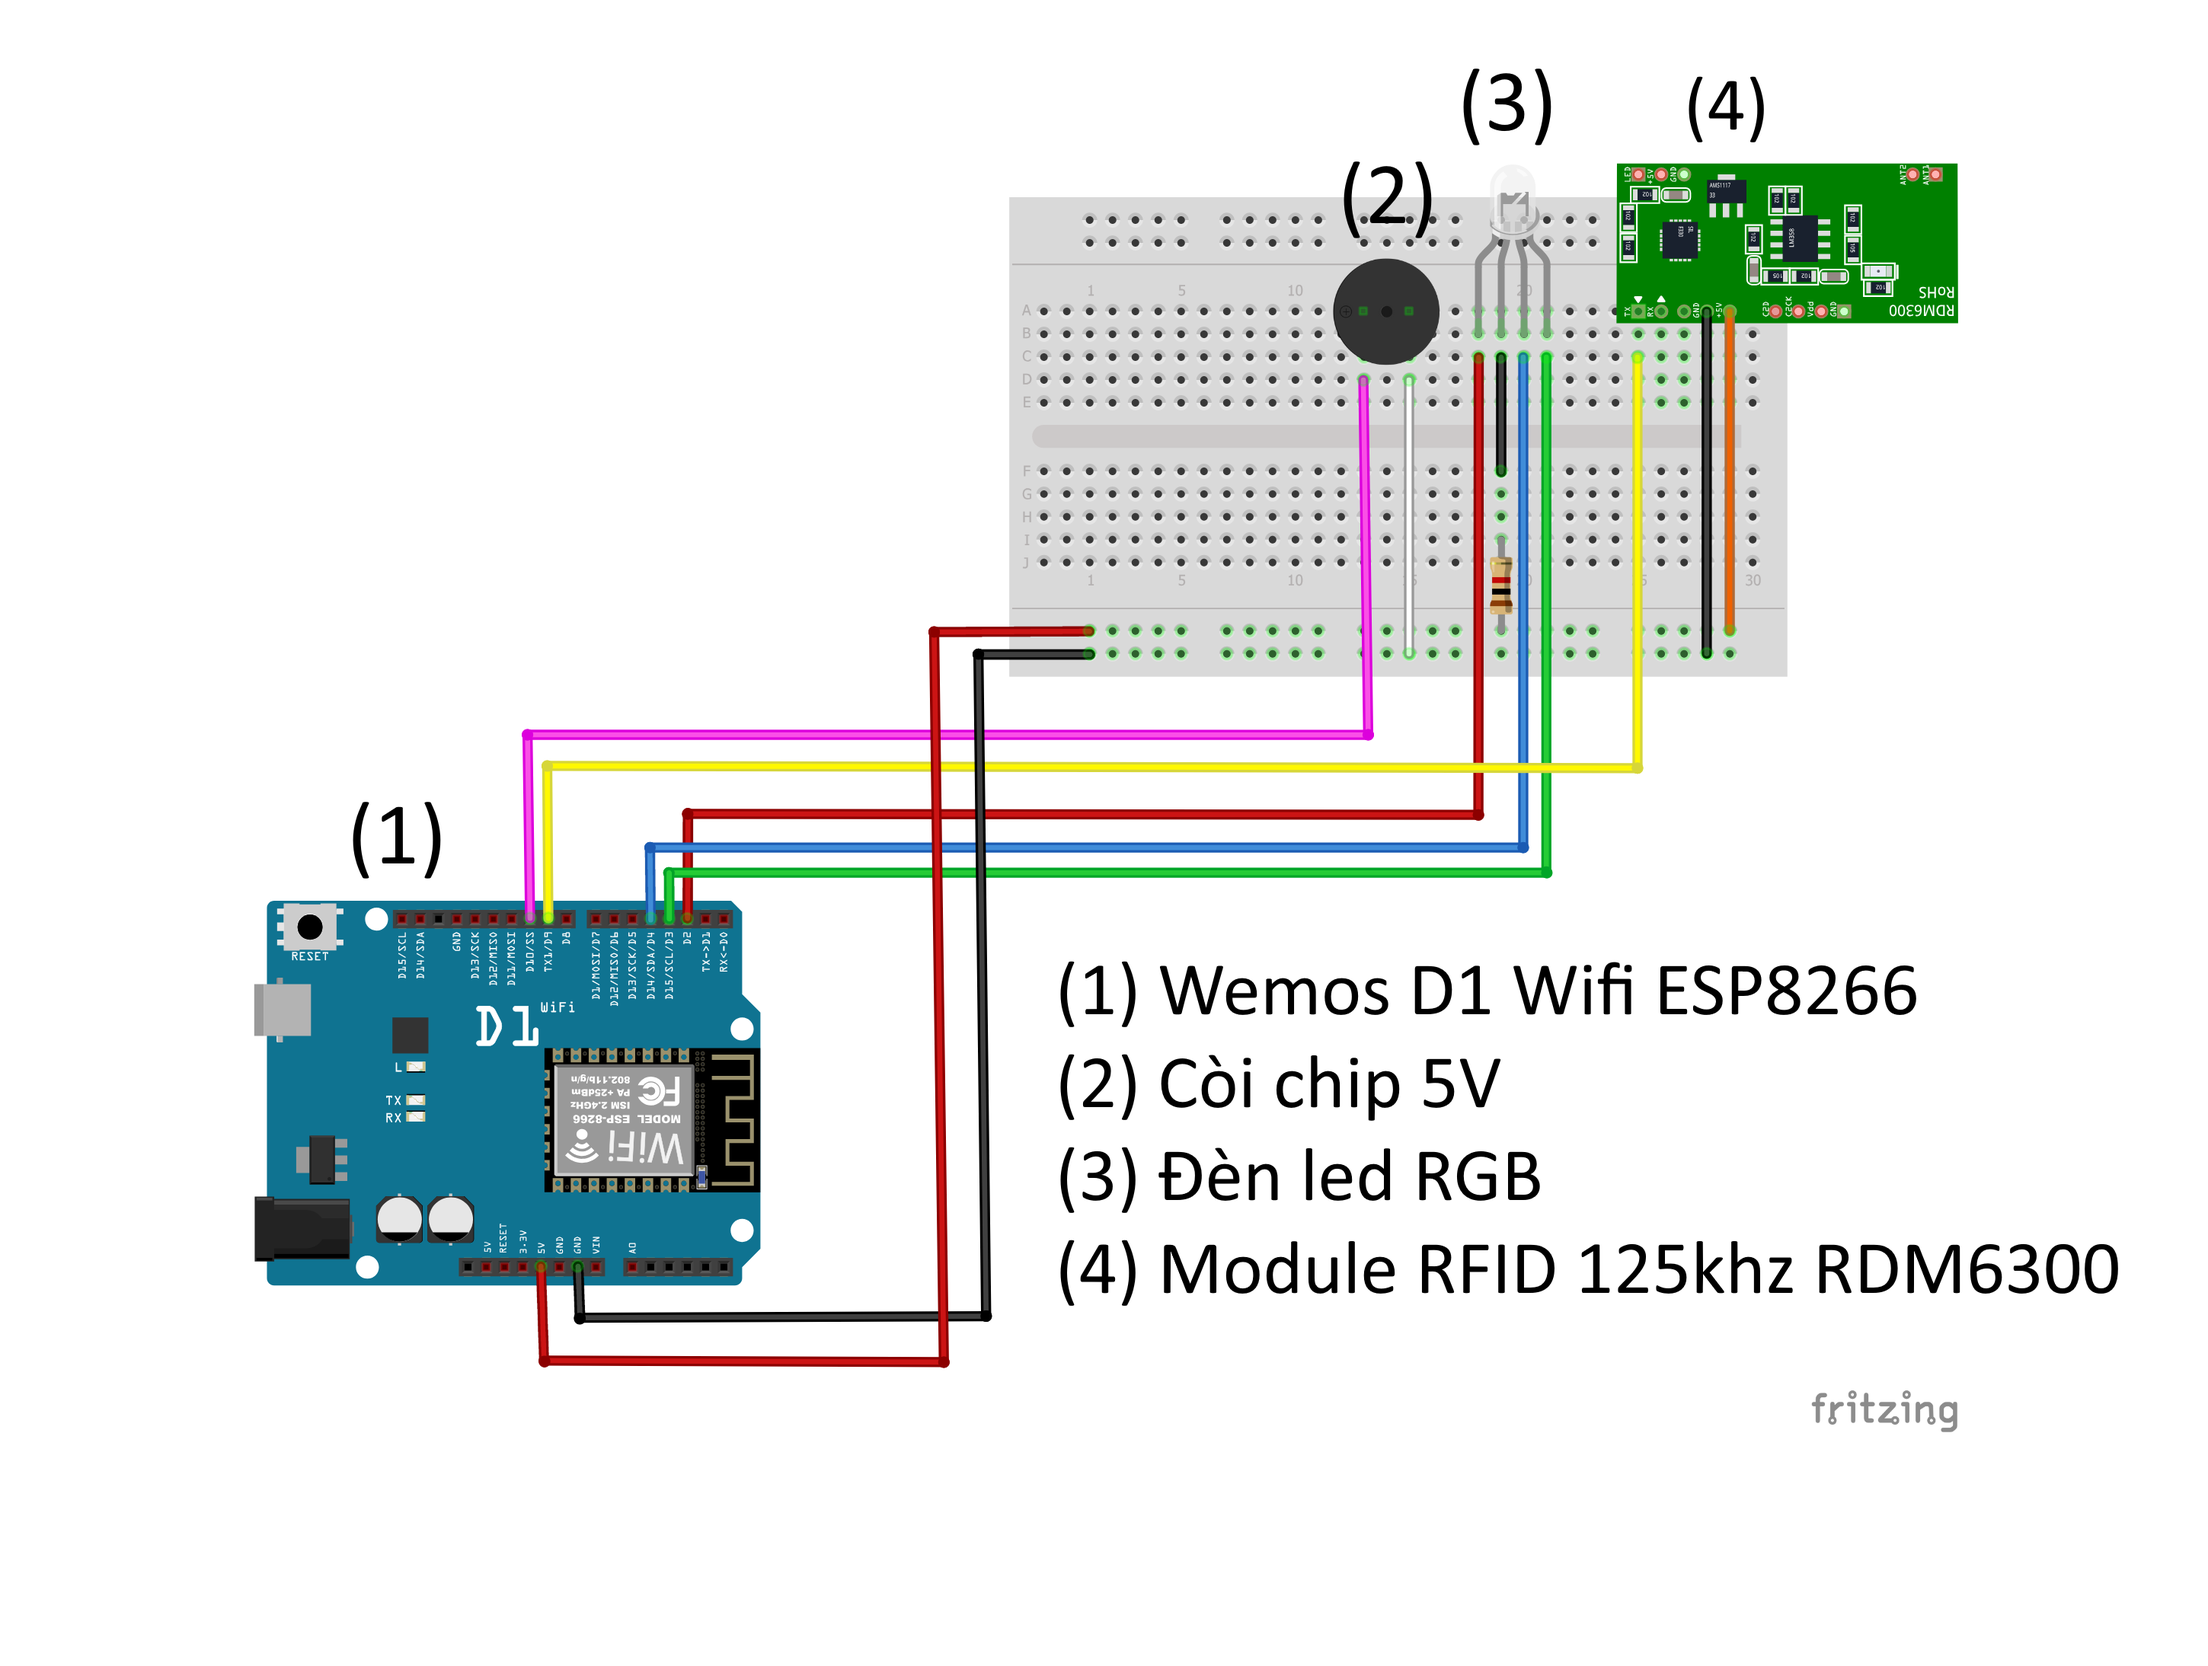
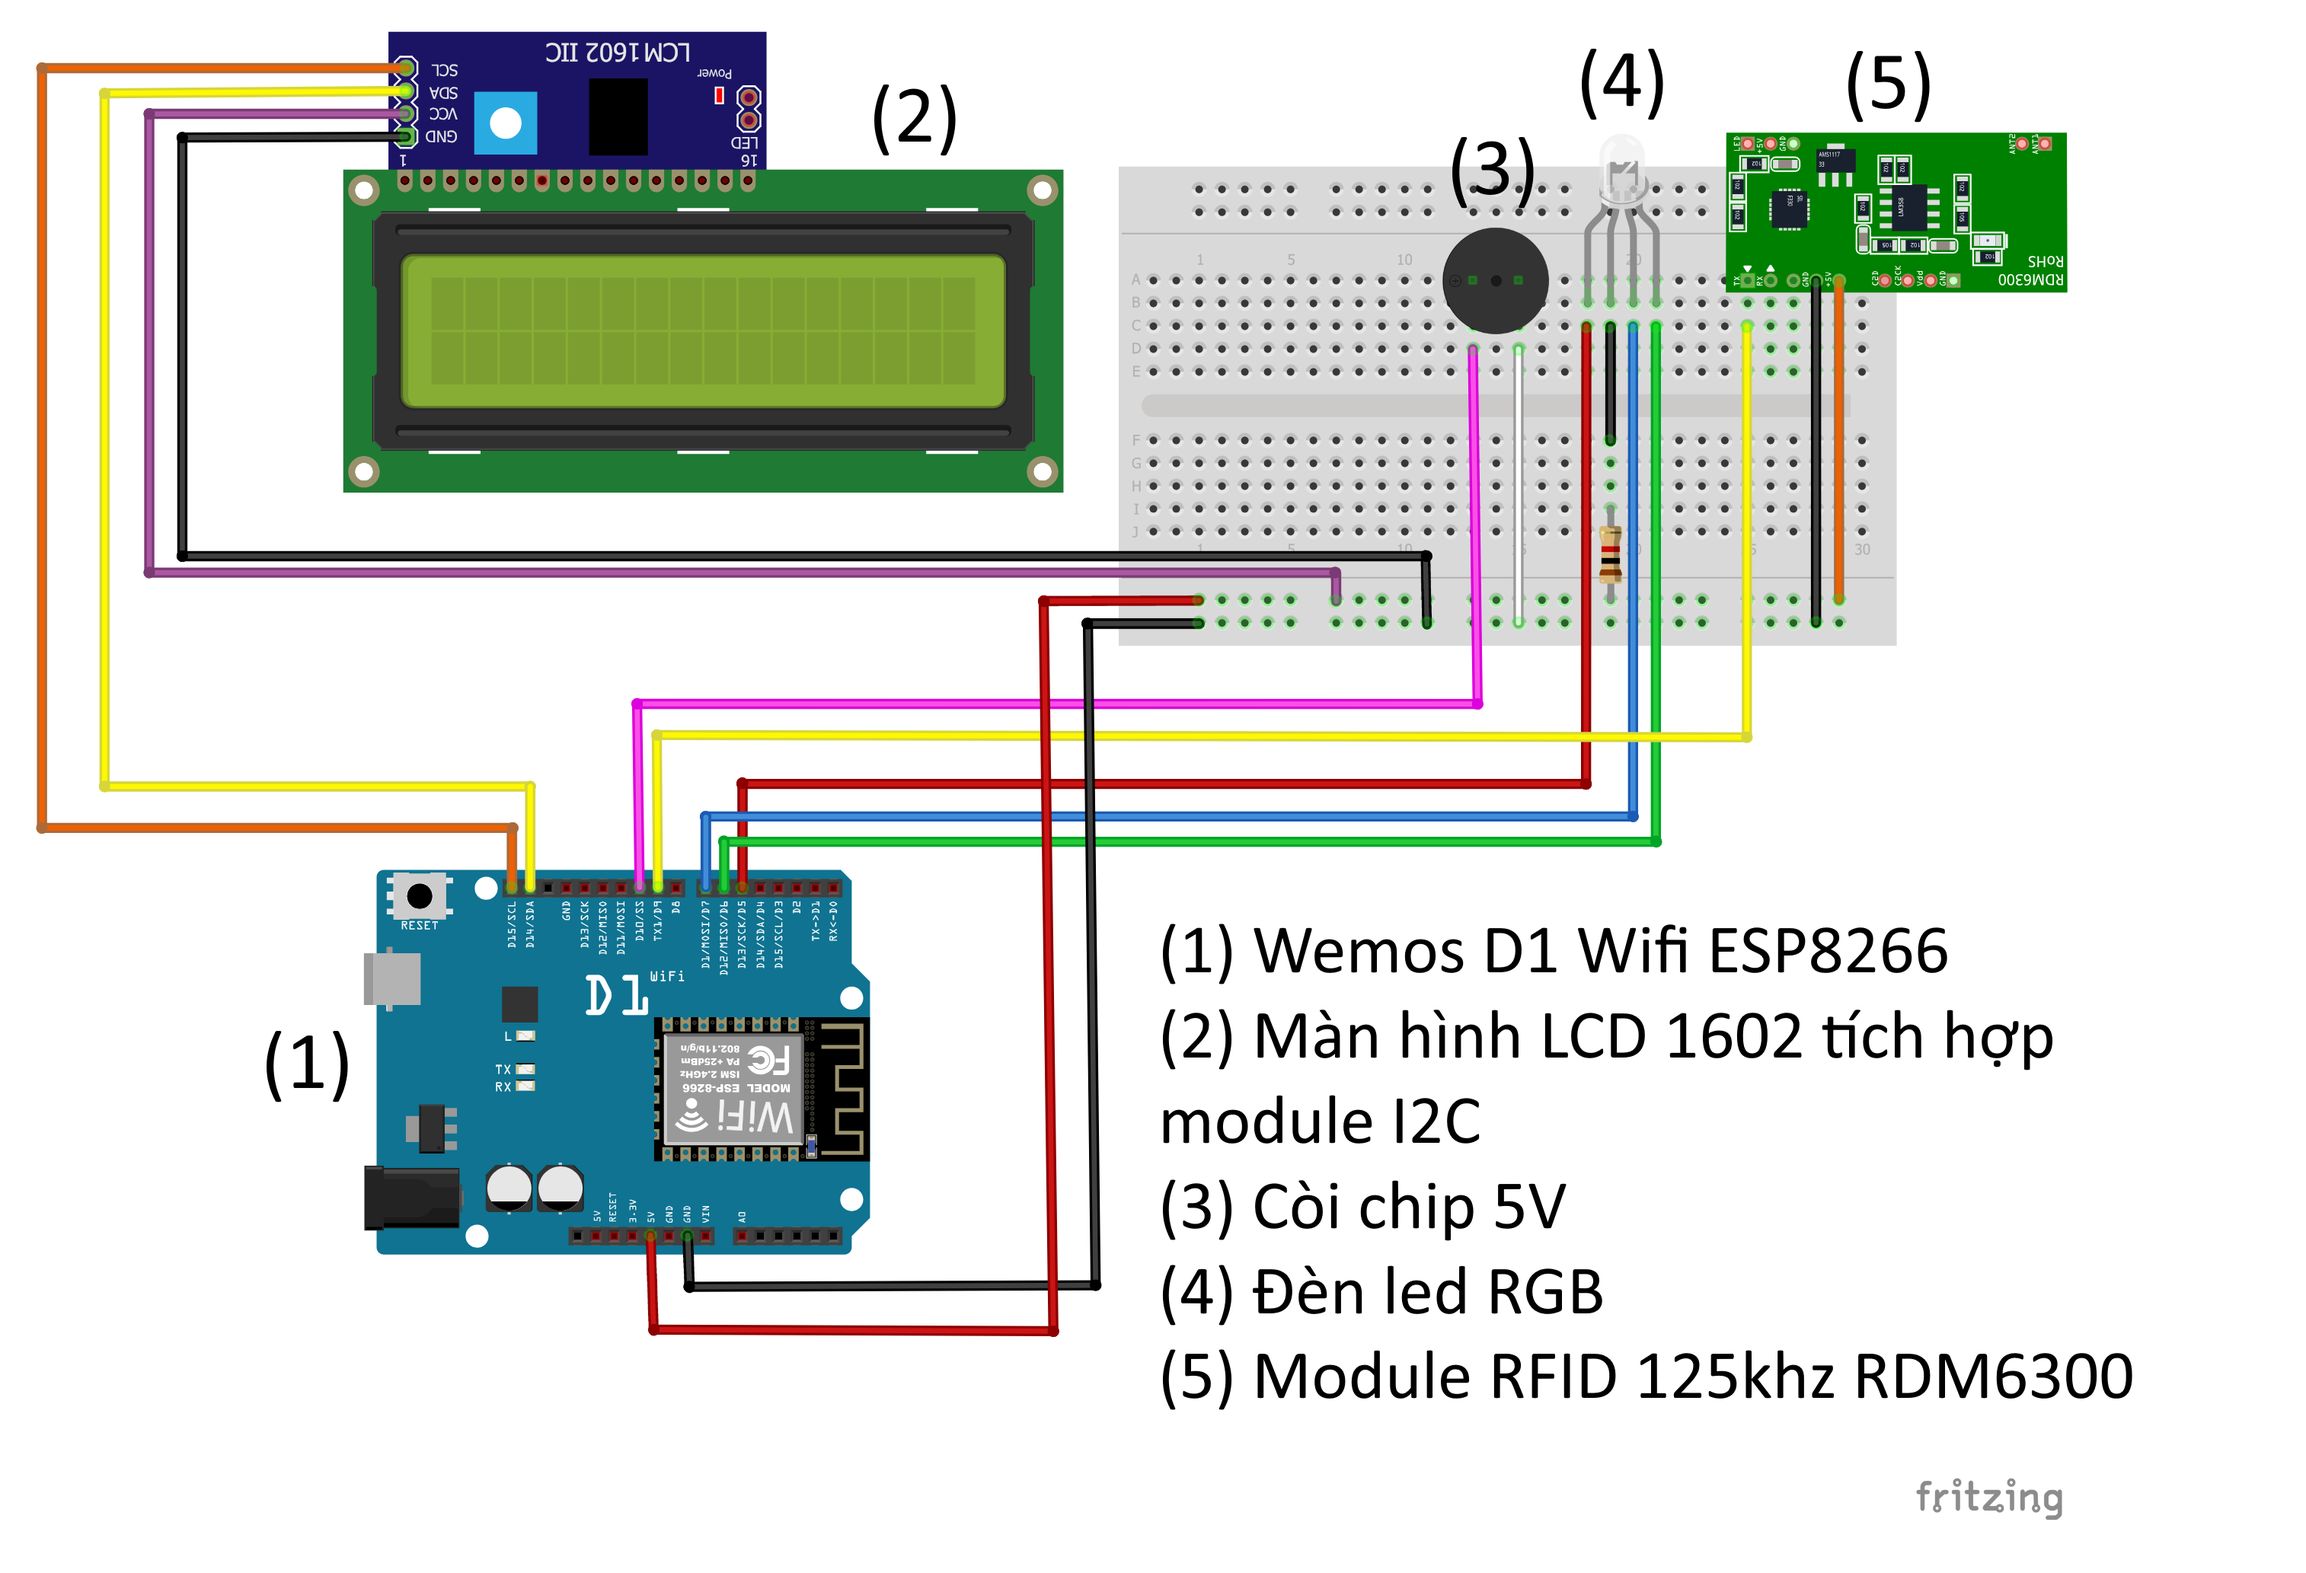
Add LCD 1602 to circuit

Changed region(s): [[0.0, 0.0, 0.9624, 0.8984], [0.8382, 0.9293, 0.9003, 0.9603]]

diff --git a/src/RFID_Arduino/RFID_Arduino/WifiConnection.cpp b/src/RFID_Arduino/RFID_Arduino/WifiConnection.cpp
@@ -22,6 +22,10 @@ bool WifiConnection::isContinue = true;
 bool WifiConnection::lastConnectionError = false;
 SOCKET sock;
 
+/// <summary>
+/// Kết nối với ESP8266 bằng giao thức TCP qua cổng 1234
+/// </summary>
+/// <param name="IP">IP của ESP8266</param>
 void WifiConnection::Connect(string IP) {
     //Khởi tạo Winsock
     WSAData data;
@@ -114,11 +118,23 @@ void WifiConnection::Connect(string IP) {
                 {
                     fmt::print(fmt::fg(fmt::color::white) | fmt::bg(fmt::color::green), "{0} đã điểm danh vào lúc {1}", student_name, GetTimeNow(0));
                     fmt::println("");
+                    stringstream stream_student_name(student_name);
+                    string segment;
+                    vector<string> student_name_splited;
+
+                    while (getline(stream_student_name, segment, ' '))
+                    {
+                        student_name_splited.push_back(segment);
+                    }
+                    //Gửi MSSV đến thiết bị
+                    send(sock, student_name_splited[student_name_splited.size() - 1].c_str(), student_name_splited[student_name_splited.size() - 1].size(), 0);
                 }
                 else
                 {
                     fmt::print(fmt::fg(fmt::color::black) | fmt::bg(fmt::color::yellow), "Không nhận dạng được thẻ sinh viên");
                     fmt::println("");
+                    //Gửi thông báo k có sinh viên
+                    send(sock, "noStudentAvail", 15, 0);
                 }
             }
         }
@@ -139,6 +155,9 @@ void WifiConnection::Connect(string IP) {
     EnterHookThread.join();
 }
 
+/// <summary>
+/// Dùng để ngắt kết nối khi nhấn Enter
+/// </summary>
 void WifiConnection::HookEnter()
 {
     string temp;
@@ -146,7 +165,7 @@ void WifiConnection::HookEnter()
 
     if (!lastConnectionError)
     {
-        int sendResult = send(sock, "disconectWifi\n", 15, 0);
+        int sendResult = send(sock, "disconectWifi", 14, 0);
         Sleep(100);
     }
     
@@ -155,6 +174,10 @@ void WifiConnection::HookEnter()
     WSACleanup();
 }
 
+/// <summary>
+/// Kết nối lại với ESP8266 khi mất kết nối
+/// </summary>
+/// <param name="IP">IP của ESP8266</param>
 void WifiConnection::Reconnect(string IP)
 {
     WSAData re_data;
